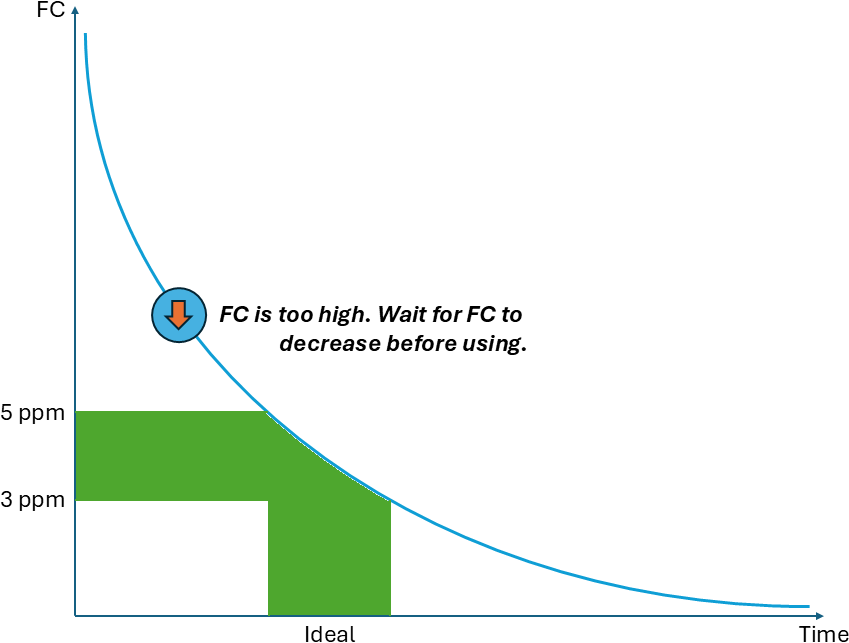
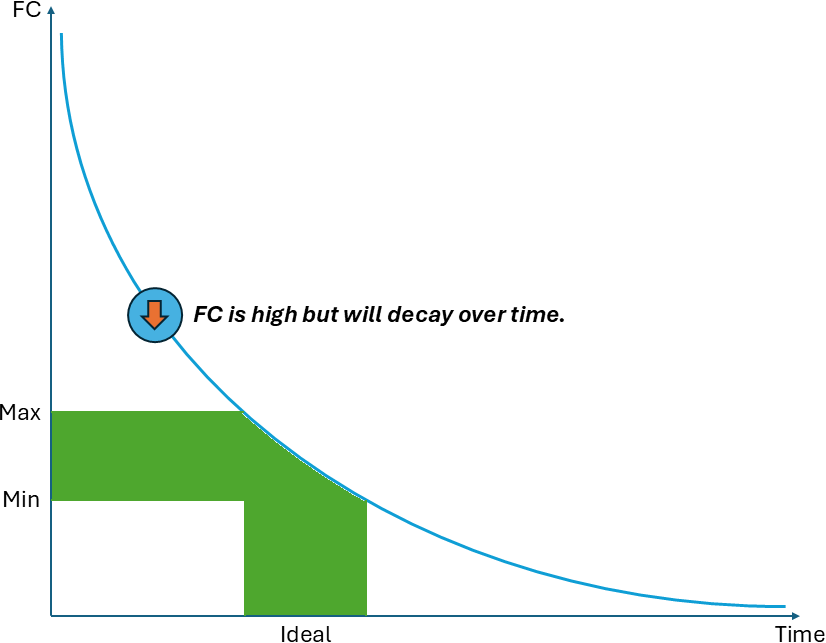
Adopted TroubleFreePool FC levels and SLAM procedure

diff --git a/index.js b/index.js
@@ -11,8 +11,9 @@ let boolVars = {};
 let chemicalPrefixes = ['Dichlor', 'Bleach', 'PhTaDown', 'MuriaticAcid', 'TaUp', 'PhUp', 'Calcium'];
 
 /* Current DateTime */
-textVars['dtNow'] = "0/0/0000 00:00:00 AM"
-textVars['nothingNeeded'] = ''
+textVars['dtNow'] = "0/0/0000 00:00:00 AM";
+textVars['nothingNeeded'] = '';
+textVars['fcTargetText'] = 'Adjust for Ideal FC during next use';
 
 /* Setup - Status */
 boolVars['showAll'] = false;
@@ -72,10 +73,13 @@ numVars['fcPrediction'] = 0;
 //numVars['fcDecay'] = 2;
 numVars['fcDecayK'] = 8.02e-9; // Default decay constant for 10 to 5 ppm FC loss in 1 day
 numVars['fcTarget'] = 5;
+numVars['fcTargetOld'] = 5; // Store old value for comparison
 numVars['addDichlor'] = 0;
 numVars['fcAddBleach'] = 0;
 //numVars['fcAdded'] = 0;
 //numVars['fcNegCorrection'] = 0;
+numVars['fcMin'] = 3;
+numVars['fcMax'] = 5;
 
 /* CC */
 numVars['ccLastValue'] = 0;
@@ -220,21 +224,71 @@ function init() {
     /* CALCULATE ALL OTHER DEPENDENT VARIABLES */
 
     /* CYA - Current Prediction */
-    numVars['caPrediction'] = numVars['caLastValue'] + // - (numVars['caDecay'] * numVars['caDaysAgo']) 
-        numVars['caAdded'] // + numVars['caNegCorrection'];
+    numVars['caPrediction'] = numVars['caLastValue'] + numVars['caAdded']; // + numVars['caNegCorrection'];// - (numVars['caDecay'] * numVars['caDaysAgo']) 
     if (numVars['caPrediction'] < 0) {
         // numVars['caNegCorrection'] = numVars['caNegCorrection'] - numVars['caPrediction'];
         // localStorage.setItem('caNegCorrection', numVars['caNegCorrection']);
         numVars['caPrediction'] = 0;
+    }
+    if (numVars['caPrediction'] > 90) {
+        numVars['fcMin'] = 11;
+        numVars['fcMax'] = 13;
+        numVars['fcSlamTarget'] = 39;
+    } else {
+        if (numVars['caPrediction'] > 80) {
+            numVars['fcMin'] = 10;
+            numVars['fcMax'] = 12;
+            numVars['fcSlamTarget'] = 35;
+        } else {
+            if (numVars['caPrediction'] > 70) {
+                numVars['fcMin'] = 9;
+                numVars['fcMax'] = 11;
+                numVars['fcSlamTarget'] = 31;
+            } else {
+                if (numVars['caPrediction'] > 60) {
+                    numVars['fcMin'] = 8;
+                    numVars['fcMax'] = 10;
+                    numVars['fcSlamTarget'] = 28;
+                } else {
+                    if (numVars['caPrediction'] > 50) {
+                        numVars['fcMin'] = 7;
+                        numVars['fcMax'] = 9;
+                        numVars['fcSlamTarget'] = 24;
+                    } else {
+                        if (numVars['caPrediction'] > 40) {
+                            numVars['fcMin'] = 6;
+                            numVars['fcMax'] = 8;
+                            numVars['fcSlamTarget'] = 20;
+                        } else {
+                            if (numVars['caPrediction'] > 30) {
+                                numVars['fcMin'] = 5;
+                                numVars['fcMax'] = 7;
+                                numVars['fcSlamTarget'] = 16;
+                            } else {
+                                if (numVars['caPrediction'] > 20) {
+                                    numVars['fcMin'] = 4;
+                                    numVars['fcMax'] = 6;
+                                    numVars['fcSlamTarget'] = 12;
+                                } else {
+                                    numVars['fcMin'] = 3;
+                                    numVars['fcMax'] = 5;
+                                    numVars['fcSlamTarget'] = 10;
+                                }
+                            }
+                        }
+                    }
+                }
+            }
+        }
     }
 
     /* FC - Current Prediction */
     // N(t) = N0 * e^(-kt)
     nMilliseconds = numVars['fcModifiedDaysAgo'] * ONE_DAY; // milliseconds since last test
     numVars['fcPrediction'] = numVars['fcLastValue'] * Math.exp(-numVars['fcDecayK'] * nMilliseconds);
-    if (numVars['fcPrediction'] > 5) {
+    if (numVars['fcPrediction'] > numVars['fcMax']) {
         document.getElementById("fc_chart").src="./fc_high.png";
-    } else if (numVars['fcPrediction'] >= 3) {
+    } else if (numVars['fcPrediction'] >= numVars['fcMin']) {
         document.getElementById("fc_chart").src="./fc_ideal.png";
     } else {
         document.getElementById("fc_chart").src="./fc_low.png";
@@ -243,15 +297,15 @@ function init() {
     // FC - Ideal Start and End Dates
     // ln(N(t) / N0) / -k = t
     let dateLastModified = new Date(dateVars['fcLastModifiedDate']);
-    let dateStartIdeal = new Date(dateLastModified.getTime() + Math.log(5 / numVars['fcLastValue']) / -numVars['fcDecayK']);
-    let dateEndIdeal = new Date(dateLastModified.getTime() + Math.log(3 / numVars['fcLastValue']) / -numVars['fcDecayK']);
+    let dateStartIdeal = new Date(dateLastModified.getTime() + Math.log(numVars['fcMax'] / numVars['fcLastValue']) / -numVars['fcDecayK']);
+    let dateEndIdeal = new Date(dateLastModified.getTime() + Math.log(numVars['fcMin'] / numVars['fcLastValue']) / -numVars['fcDecayK']);
     textVars['fcStartIdeal'] = dateStartIdeal.toLocaleString();
     textVars['fcEndIdeal'] = dateEndIdeal.toLocaleString();
     
     // FC - TARGET - Start and End Dates
     // ln(N(t) / N0) / -k = t
-    let dateTargetStartIdeal = new Date(date.getTime() + Math.log(5 / numVars['fcTarget']) / -numVars['fcDecayK']);
-    let dateTargetEndIdeal = new Date(date.getTime() + Math.log(3 / numVars['fcTarget']) / -numVars['fcDecayK']);
+    let dateTargetStartIdeal = new Date(date.getTime() + Math.log(numVars['fcMax'] / numVars['fcTarget']) / -numVars['fcDecayK']);
+    let dateTargetEndIdeal = new Date(date.getTime() + Math.log(numVars['fcMin'] / numVars['fcTarget']) / -numVars['fcDecayK']);
     textVars['fcTargetStartIdeal'] = dateTargetStartIdeal.toLocaleString();
     textVars['fcTargetEndIdeal'] = dateTargetEndIdeal.toLocaleString();
     
@@ -271,7 +325,7 @@ function init() {
     }
     const fcAddDichlor = fcTargetDelta * 0.1032 * numVars['spaVolume'] / 400 * 99 / numVars['dichlorStrength'];
     const fcAddBleach = fcTargetDelta * 0.51 * numVars['spaVolume'] / 400 * 10 / numVars['bleachStrength'];
-    
+    /*
     let fcBreakpointDelta = numVars['ccLastValue'] * 10 - numVars['fcPrediction'];
     if (fcBreakpointDelta < 0.5) {
         fcBreakpointDelta = 0;
@@ -288,7 +342,7 @@ function init() {
         textVars['dichlorMessage'] = 'Dichlor for 10x CC';
     }
     localStorage.setItem("dichlorMessage", textVars['dichlorMessage']);
-
+    
     let maxAddBleach = 0;
     if (fcAddBleach > ccAddBleach) {
         maxAddBleach = fcAddBleach; // Use the FC amount if it is higher
@@ -298,14 +352,14 @@ function init() {
         textVars['bleachMessage'] = 'Bleach for 10x CC';
     }
     localStorage.setItem("bleachMessage", textVars['bleachMessage']);
-
+    */
     if (numVars['caPrediction'] <= 40) { // CYA is low enough to use Dichlor
-        numVars['addDichlor'] = maxAddDichlor; // Use the max amount of Dichlor calculated
+        numVars['addDichlor'] = fcAddDichlor; // Use the max amount of Dichlor calculated
         numVars['addBleach'] = '0.00'; // Don't use bleach if CYA is low
     }
     else { // CYA is high enough to use Bleach
         numVars['addDichlor'] = '0.00'; // Don't use Dichlor if CYA is high
-        numVars['addBleach'] = maxAddBleach; // Use the max amount of Bleach calculated
+        numVars['addBleach'] = fcAddBleach; // Use the max amount of Bleach calculated
     }
     localStorage.setItem("addDichlor", numVars['addDichlor']);
     localStorage.setItem("addBleach", numVars['addBleach']);
@@ -561,6 +615,18 @@ function updateTest(sPrefix/*, sDaysAgoLimitId = false*/) {
         localStorage.setItem(daysAgoLimit.id, numVars[daysAgoLimit.id]);
     }
 */
+    if (sPrefix == 'cc') {
+        if (numVars['ccLastValue'] >= 0.5) {
+            numVars['fcTarget'] = numVars['fcSlamTarget'];
+            textVars['fcTargetText'] = 'Hold this level until CC < 0.5 ppm';
+        } else {
+            numVars['fcTarget'] = numVars['fcTargetOld'];
+            textVars['fcTargetText'] = 'Adjust for Ideal FC during next use';
+        }
+        localStorage.setItem('fcTarget', numVars['fcTarget']);
+        localStorage.setItem('fcTargetText', textVars['fcTargetText']);
+    }
+
     if (sPrefix == 'ph') {
         boolVars['showph'] = false;
         localStorage.setItem('showph', boolVars['showph']);
@@ -619,7 +685,7 @@ function addedDichlor() {
         const fcDelta = value / 0.1032 / numVars['spaVolume'] * 400 / 99 * numVars['dichlorStrength'];
         //numVars['fcAdded'] = numVars['fcAdded'] + fcDelta;
         numVars['caAdded'] = numVars['caAdded'] + (fcDelta * 0.8);
-        numVars['ccLastValue'] = 0; // Reset CC to 0 after adding Dichlor
+        //numVars['ccLastValue'] = 0; // Reset CC to 0 after adding Dichlor 
 
         // N(t) = N0 * e^(-kt)
         // Add fcAdded to predicted value and store as LastTest value
@@ -628,7 +694,7 @@ function addedDichlor() {
 
         //localStorage.setItem('fcAdded', numVars['fcAdded']);
         localStorage.setItem('caAdded', numVars['caAdded']);
-        localStorage.setItem('ccLastValue', numVars['ccLastValue']);
+        //localStorage.setItem('ccLastValue', numVars['ccLastValue']);
         localStorage.setItem('fcLastValue', numVars['fcLastValue']);
         localStorage.setItem('fcLastModifiedDate', dateVars['fcLastModifiedDate']);
 
@@ -652,7 +718,7 @@ function addedBleach() {
         // immediately before adding the value in case it's been a while since the last refresh.
         const fcDelta = value / 0.51 / numVars['spaVolume'] * 400 / 10 * numVars['bleachStrength'];
         //numVars['fcAdded'] = numVars['fcAdded'] + fcDelta;
-        numVars['ccLastValue'] = 0; // Reset CC to 0 after adding Bleach
+        //numVars['ccLastValue'] = 0; // Reset CC to 0 after adding Bleach
 
         // N(t) = N0 * e^(-kt)
         // Add fcAdded to predicted value and store as LastTest value
@@ -660,7 +726,7 @@ function addedBleach() {
         dateVars['fcLastModifiedDate'] = new Date(); // milliseconds since epoch
 
         //localStorage.setItem("fcAdded", numVars['fcAdded']);
-        localStorage.setItem('ccLastValue', numVars['ccLastValue']);
+        //localStorage.setItem('ccLastValue', numVars['ccLastValue']);
         localStorage.setItem('fcLastValue', numVars['fcLastValue']);
         localStorage.setItem('fcLastModifiedDate', dateVars['fcLastModifiedDate']);
         
@@ -899,8 +965,11 @@ function fcTargetAdjust(delta) {
     if (numVars['fcTarget'] > 70) {
         numVars['fcTarget'] = 70;
     }
+    textVars['fcTargetText'] = 'Adjust for Ideal FC during next use';
+    numVars['fcTargetOld'] = numVars['fcTarget']; // Store old value for comparison
     localStorage.setItem("fcTarget", numVars['fcTarget']);
-    
+    localStorage.setItem("fcTargetText", textVars['fcTargetText']);
+    localStorage.setItem("fcTargetOld", numVars['fcTargetOld']);
     refresh();
 }
 
@@ -910,7 +979,9 @@ function editFcTarget() {
         target = parseInt(target);
         if (target >= 1 && target <= 70) {
             numVars['fcTarget'] = target;
+            numVars['fcTargetOld'] = numVars['fcTarget']; // Store old value for comparison
             localStorage.setItem('fcTarget', numVars['fcTarget']);
+            localStorage.setItem('fcTargetOld', numVars['fcTargetOld']);
             refresh();
         }
         else {

diff --git a/index.html b/index.html
@@ -24,92 +24,52 @@
       <img id="fc_chart" src="./fc_high.png" alt="FC Chart" width="400">
       <table class="statusTable">
         <tr>
-          <th class="underline" colspan="2">
-            Current Prediction
-          </th>
+          <th class="underline" colspan="2">Current Prediction</th>
         </tr>
         <tr>
-          <th>
-            FC
-          </th>
-          <th>
-            When
-          </th>
+          <th>FC</th>
+          <th>When</th>
         </tr>
         <tr>
-          <td>
-            <b class="numDisplays" id="fcPrediction"></b><span class="units">ppm</span>
-          </td>
-          <td>
-            Now
-          </td>
+          <td><b class="numDisplays" id="fcPrediction"></b><span class="units">ppm</span></td>
+          <td>Now</td>
         </tr>
         <tr>
-          <td>
-            <b>5</b><span class="units">ppm</span>
-          </td>
-          <td>
-            <b class="textDisplays" id="fcStartIdeal"></b>
-          </td>
+          <td><b class="numDisplays" id="fcMax"></b><span class="units">ppm (Max)</span></td>
+          <td><b class="textDisplays" id="fcStartIdeal"></b></td>
         </tr>
         <tr>
-          <td>
-            <b>3</b><span class="units">ppm</span>
-          </td>
-          <td>
-            <b class="textDisplays" id="fcEndIdeal"></b>
-          </td>
+          <td><b class="numDisplays" id="fcMin"></b><span class="units">ppm (Min)</span></td>
+          <td><b class="textDisplays" id="fcEndIdeal"></b></td>
         </tr>
       </table>
       <br>
       <table class="statusTable">
         <tr>
-          <th class="underline" colspan="3">
-            Adjust for Ideal FC during next use
-          </th>
+          <th class="underline" colspan="3"><b class="textDisplays" id="fcTargetText"></b></th>
         </tr>
         <tr>
-          <th>
-            FC
-          </th>
-          <th>
-            When
-          </th>
-          <th>
-            Adjust
-          </th>
+          <th>FC</th>
+          <th>When</th>
+          <th>Adjust</th>
         </tr>
         <tr>
-          <td>
-            <b class="numDisplays0" id="fcTarget"></b><span class="units">ppm</span>
-          </td>
-          <td>
-            After bleach or dichlor is added
-          </td>
+          <td><b class="numDisplays0" id="fcTarget"></b><span class="units">ppm</span></td>
+          <td>After bleach or dichlor is added</td>
           <td>
             <button class="symbols" onclick="fcTargetAdjust(-1)">&lt;</button>
             <button class="symbols" onclick="fcTargetAdjust(+1)">&gt;</button>
           </td>
         </tr>
         <tr>
-          <td>
-            <b>5</b><span class="units">ppm</span>
-          </td>
-          <td>
-            <b class="textDisplays" id="fcTargetStartIdeal"></b>
-          </td>
-          <td>
-          </td>
+          <td><b class="numDisplays" id="fcMax"></b><span class="units">ppm (Max)</span></td>
+          <td><b class="textDisplays" id="fcTargetStartIdeal"></b></td>
+          <td></td>
         </tr>
         <tr>
-          <td>
-            <b>3</b><span class="units">ppm</span>
-          </td>
-          <td>
-            <b class="textDisplays" id="fcTargetEndIdeal"></b>
-          </td>
-          <td>
-          </td>
+          <td><b class="numDisplays" id="fcMin"></b><span class="units">ppm (Min)</span></td>
+          <td><b class="textDisplays" id="fcTargetEndIdeal"></b></td>
+          <td></td>
         </tr>
       </table>
     </div>
@@ -132,7 +92,7 @@
       </thead>
       <tbody>
         <tr id="DichlorRow">
-          <td class="textDisplays" id="dichlorMessage">Dichlor</td>
+          <td>Dichlor</td>
           <td><span class="numDisplays" id="dichlorStrength"></span><span class="units">% </span><button class="symbols" onclick="editChemStrength('dichlorStrength')">&#x270E</button></td>
           <form onsubmit="addedDichlor();return false">
             <td><input class="numInputs2" type="number" id="addDichlor" min="0" max="100" step="0.01" required><span class="units">oz</span></td> 
@@ -140,7 +100,7 @@
           </form>
         </tr>
         <tr id="BleachRow">
-          <td class="textDisplays" id="bleachMessage">Bleach</td>
+          <td>Bleach</td>
           <td><span class="numDisplays" id="bleachStrength"></span><span class="units">% </span><button class="symbols" onclick="editChemStrength('bleachStrength')">&#x270E</button></td>
           <form onsubmit="addedBleach();return false">
             <td><input class="numInputs2" type="number" id="addBleach" min="0" max="200" step="0.01" required><span class="units">fl oz</span></td>
